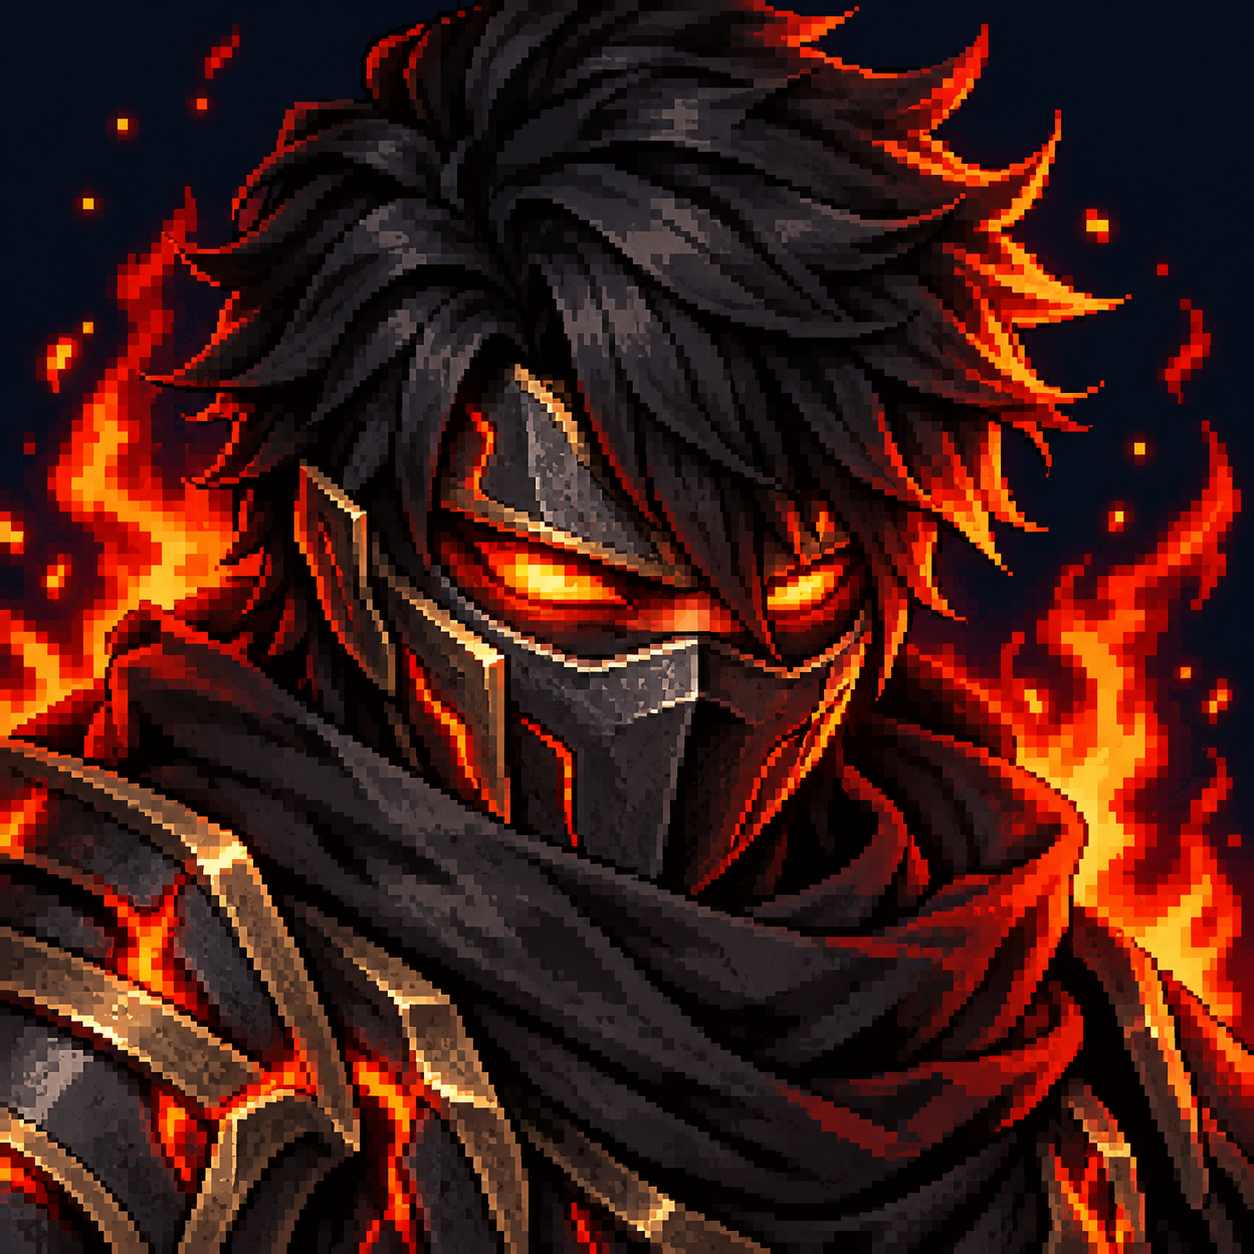
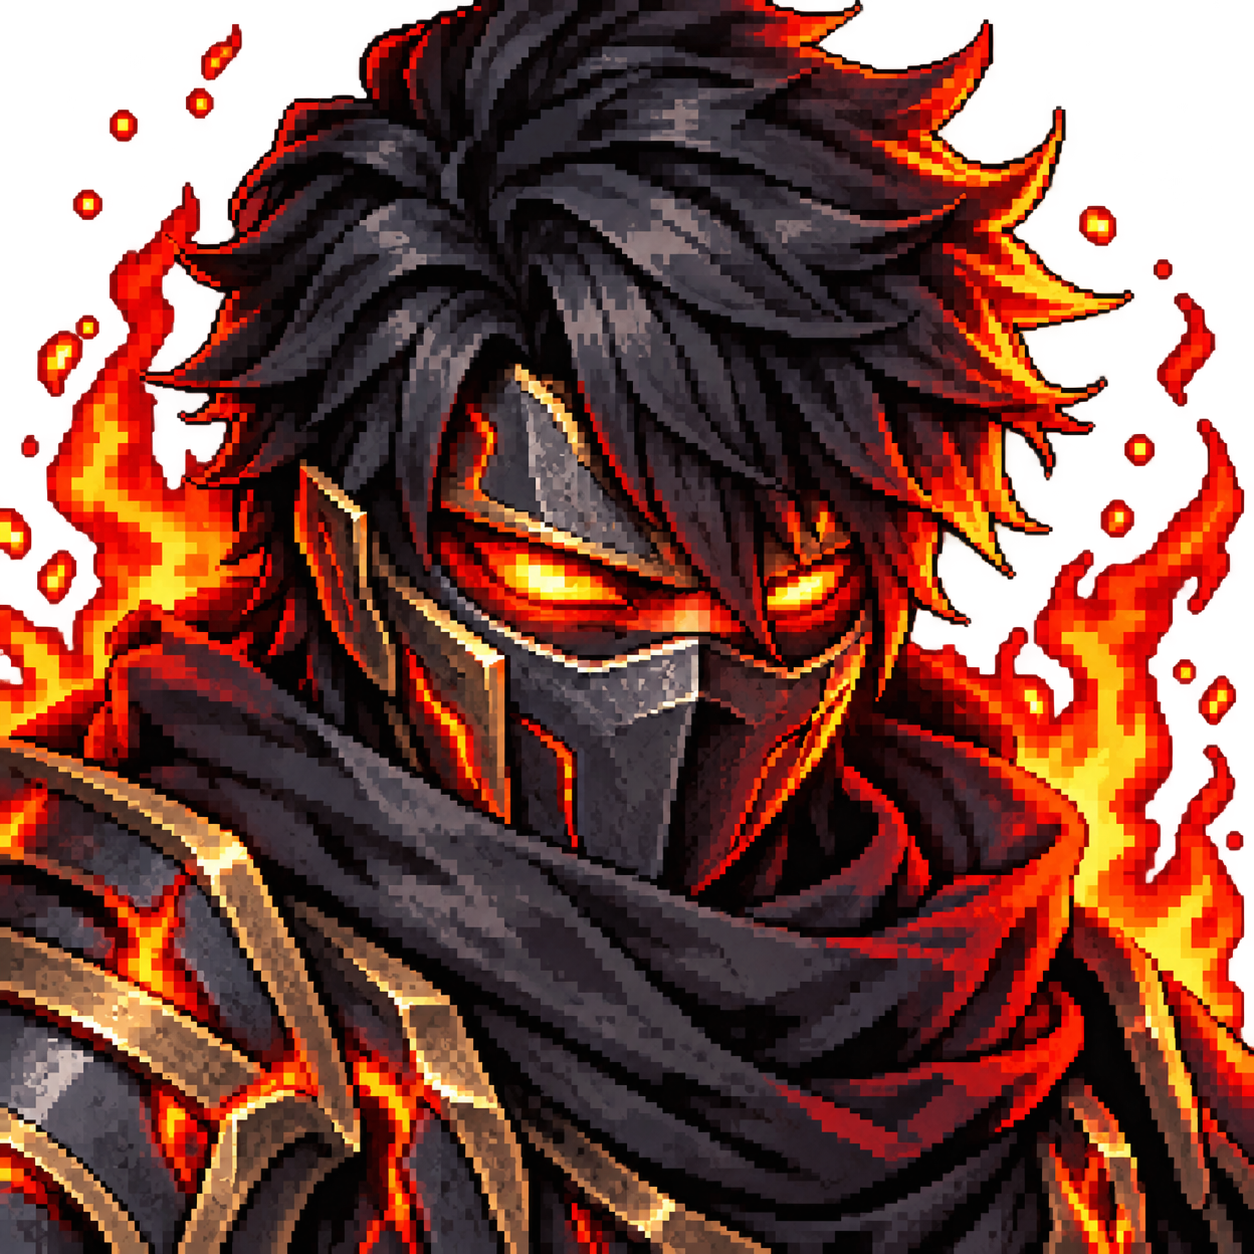
Polish roster portraits and add match report

diff --git a/index.html b/index.html
@@ -63,7 +63,7 @@
     }
     </script>
     
-    <link rel="stylesheet" href="ninjaStyles.css?v=avatar-only-forgefire-1">
+    <link rel="stylesheet" href="ninjaStyles.css?v=match-report-equal-roster-1">
     
     <!-- 🔍 Canonical URL -->
     <link rel="canonical" href="https://412730508.github.io/ninjaplay/">
@@ -358,6 +358,25 @@
         </button>
     </div>
 
+    <button type="button" class="match-report-toggle" id="matchReportToggle" onclick="toggleMatchReport()" aria-expanded="false" aria-controls="matchReportPanel">
+        <span aria-hidden="true">📋</span> 戰報
+    </button>
+    <section class="match-report-panel" id="matchReportPanel" role="dialog" aria-labelledby="matchReportTitle" hidden>
+        <header class="match-report-header">
+            <div>
+                <span class="match-report-kicker">MATCH HISTORY</span>
+                <h2 id="matchReportTitle">對戰戰報</h2>
+            </div>
+            <button type="button" class="match-report-close" onclick="closeMatchReport()" aria-label="關閉戰報">×</button>
+        </header>
+        <p class="match-report-hint">記錄雙方角色與勝負，可直接貼到試算表整理。</p>
+        <textarea id="matchReportText" class="match-report-text" readonly spellcheck="false" aria-label="可複製的對戰戰報"></textarea>
+        <footer class="match-report-actions">
+            <span id="matchReportStatus" role="status" aria-live="polite"></span>
+            <button type="button" class="match-report-copy" onclick="copyMatchReport()">複製全部</button>
+        </footer>
+    </section>
+
     <!-- 🔍 添加頁腳 -->
     <footer class="game-footer">
         <p>&copy; 2026 火柴人魔法亂鬥 | 免費線上忍者格鬥遊戲</p>
@@ -389,6 +408,102 @@
         // 道場鬥技盃：禁兩角、蛇形選六角；每人選角的先後就是三戰出場順序。
         let tournamentState = null;
         let tournamentWinnerWatcher = null;
+        const MATCH_REPORT_STORAGE_KEY = 'ninjaDuelMatchReportV1';
+        let matchReportWatcher = null;
+        let lastRecordedMatchWinner = null;
+        let matchReportEntries = loadMatchReport();
+
+        function loadMatchReport() {
+            try {
+                const saved = JSON.parse(localStorage.getItem(MATCH_REPORT_STORAGE_KEY) || '[]');
+                return Array.isArray(saved) ? saved.filter(entry => entry && entry.player1 && entry.player2 && entry.winner && entry.loser).slice(0, 300) : [];
+            } catch (error) {
+                return [];
+            }
+        }
+
+        function matchReportSafeCell(value) {
+            return String(value ?? '').replace(/[\t\r\n]+/g, ' ').trim();
+        }
+
+        function renderMatchReport() {
+            const field = document.getElementById('matchReportText');
+            if (!field) return;
+            const header = ['日期', '玩家1角色', '玩家2角色', '勝方', '敗方'].join('\t');
+            const rows = matchReportEntries.map(entry => [entry.date, entry.player1, entry.player2, entry.winner, entry.loser].map(matchReportSafeCell).join('\t'));
+            field.value = [header, ...rows].join('\n');
+            const status = document.getElementById('matchReportStatus');
+            if (status) {
+                delete status.dataset.copied;
+                status.textContent = `共 ${matchReportEntries.length} 場`;
+            }
+        }
+
+        function toggleMatchReport() {
+            const panel = document.getElementById('matchReportPanel');
+            if (!panel) return;
+            if (panel.hidden) {
+                panel.hidden = false;
+                document.getElementById('matchReportToggle')?.setAttribute('aria-expanded', 'true');
+                renderMatchReport();
+            } else {
+                closeMatchReport();
+            }
+        }
+
+        function closeMatchReport() {
+            const panel = document.getElementById('matchReportPanel');
+            if (panel) panel.hidden = true;
+            document.getElementById('matchReportToggle')?.setAttribute('aria-expanded', 'false');
+        }
+
+        async function copyMatchReport() {
+            const field = document.getElementById('matchReportText');
+            const status = document.getElementById('matchReportStatus');
+            if (!field) return;
+            renderMatchReport();
+            try {
+                await navigator.clipboard.writeText(field.value);
+            } catch (error) {
+                field.focus();
+                field.select();
+                if (!document.execCommand('copy')) {
+                    if (status) status.textContent = '已選取內容，請按 Ctrl+C 複製';
+                    return;
+                }
+            }
+            if (status) {
+                status.textContent = '已複製，可直接貼上';
+                status.dataset.copied = 'true';
+            }
+        }
+
+        function recordMatchResult() {
+            if (matchReportWatcher) clearInterval(matchReportWatcher);
+            matchReportWatcher = setInterval(() => {
+                const winnerId = game?.gameState?.winner;
+                if (!winnerId) {
+                    lastRecordedMatchWinner = null;
+                    return;
+                }
+                if (winnerId === lastRecordedMatchWinner) return;
+                const winner = game?.players?.[winnerId];
+                const loserId = winnerId === 'player1' ? 'player2' : 'player1';
+                const loser = game?.players?.[loserId];
+                if (!winner || !loser) return;
+                lastRecordedMatchWinner = winnerId;
+                matchReportEntries.unshift({
+                    date: new Date().toLocaleString('zh-TW', { hour12: false }),
+                    player1: characters[game.players.player1?.id]?.name || game.players.player1?.id || '玩家1',
+                    player2: characters[game.players.player2?.id]?.name || game.players.player2?.id || '玩家2',
+                    winner: characters[winner.id]?.name || winner.id || (winnerId === 'player1' ? '玩家1' : '玩家2'),
+                    loser: characters[loser.id]?.name || loser.id || (loserId === 'player1' ? '玩家1' : '玩家2')
+                });
+                matchReportEntries = matchReportEntries.slice(0, 300);
+                try { localStorage.setItem(MATCH_REPORT_STORAGE_KEY, JSON.stringify(matchReportEntries)); } catch (error) { /* keep this match available in memory */ }
+                if (!document.getElementById('matchReportPanel')?.hidden) renderMatchReport();
+            }, 250);
+        }
 
         function tournamentCharacterIds() {
             const order = id => id === 'forgefire' ? 1 : id === 'yanghong' ? 2 : 0;
@@ -2549,6 +2664,7 @@
         document.addEventListener('keydown', function(e) {
             if (e.key === 'Escape') {
                 closeSkillGuide();
+                closeMatchReport();
             }
         });
         
@@ -2569,6 +2685,7 @@
             
             // 初始化角色選擇
             initCharacterSelection();
+            recordMatchResult();
             
             const selectMapBtn = document.getElementById('selectMapBtn');
             const startBattleBtn = document.getElementById('startBattleBtn');

diff --git a/ninjaStyles.css b/ninjaStyles.css
@@ -1942,7 +1942,7 @@ body::after {
   #characterSelect .selected-metric, #characterSelect .selected-skill-pill { padding: 3px 6px; font-size: 0.62rem; }
   #characterSelect .roster-grid {
     height: calc(100% - 56px); grid-template-columns: repeat(7, minmax(0, 1fr));
-    grid-template-rows: repeat(3, minmax(0, 1fr)); gap: 7px;
+    grid-template-rows: repeat(4, minmax(0, 1fr)); gap: 7px;
   }
   #characterSelect .roster-grid .character-card { min-height: 0; height: 100%; padding: 7px; border-radius: 12px; }
   #characterSelect .roster-grid .character-card-main { gap: 5px; }
@@ -3533,6 +3533,92 @@ body::after {
   object-fit: cover;
   object-position: center;
   transform: scale(1.08);
+}
+
+/* Transparent forgefire cutout: preserve only the portrait artwork, not its old tile. */
+#characterSelect .roster-grid .character-card[data-character-id="forgefire"] .character-icon-block {
+  overflow: visible;
+  border-color: transparent;
+  border-radius: 0 !important;
+  background: transparent;
+  box-shadow: none;
+}
+#characterSelect .roster-grid .character-card[data-character-id="forgefire"] .character-portrait {
+  object-fit: contain;
+  transform: none;
+}
+
+/* Six columns produce balanced, equal-height rows instead of a tiny isolated last row. */
+@media (min-width: 1081px) and (min-height: 600px) {
+  #characterSelect .roster-grid {
+    grid-template-columns: repeat(6, minmax(0, 1fr)) !important;
+    grid-template-rows: repeat(4, minmax(0, 1fr)) !important;
+  }
+}
+
+.match-report-toggle {
+  position: fixed;
+  right: 18px;
+  bottom: 88px;
+  z-index: 121;
+  display: inline-flex;
+  align-items: center;
+  gap: 7px;
+  padding: 10px 14px;
+  color: #fff4d7;
+  font-family: inherit;
+  font-size: .82rem;
+  font-weight: 700;
+  line-height: 1.1;
+  background: linear-gradient(145deg, rgba(30, 39, 65, .98), rgba(10, 15, 31, .98));
+  border: 1px solid rgba(255, 203, 96, .58);
+  border-radius: 12px;
+  box-shadow: 0 8px 22px rgba(0, 0, 0, .38);
+  cursor: pointer;
+}
+.match-report-toggle:hover,
+.match-report-copy:hover { border-color: #ffe18b; filter: brightness(1.12); }
+.match-report-panel {
+  position: fixed;
+  right: 18px;
+  bottom: 140px;
+  z-index: 122;
+  display: flex;
+  flex-direction: column;
+  width: min(440px, calc(100vw - 28px));
+  max-height: min(66vh, 540px);
+  padding: 16px;
+  color: #f4f0e8;
+  background: linear-gradient(145deg, rgba(18, 24, 43, .98), rgba(8, 12, 25, .99));
+  border: 1px solid rgba(255, 203, 96, .45);
+  border-radius: 16px;
+  box-shadow: 0 18px 48px rgba(0, 0, 0, .55);
+}
+.match-report-panel[hidden] { display: none !important; }
+.match-report-header { display: flex; align-items: center; justify-content: space-between; gap: 12px; }
+.match-report-kicker { color: #f6c953; font-size: .62rem; font-weight: 800; letter-spacing: .16em; }
+.match-report-header h2 { margin: 3px 0 0; font-size: 1.2rem; }
+.match-report-close {
+  width: 34px; height: 34px; color: #f3e8cf; font-size: 1.4rem;
+  background: rgba(255, 255, 255, .07); border: 1px solid rgba(255, 255, 255, .14);
+  border-radius: 9px; cursor: pointer;
+}
+.match-report-hint { margin: 9px 0; color: rgba(236, 239, 248, .68); font-size: .76rem; }
+.match-report-text {
+  width: 100%; min-height: 170px; flex: 1 1 auto; resize: vertical;
+  padding: 10px; color: #e8edf8; font: 12px/1.55 Consolas, "Microsoft JhengHei", monospace;
+  background: rgba(3, 7, 17, .8); border: 1px solid rgba(255, 255, 255, .12); border-radius: 9px;
+}
+.match-report-actions { display: flex; align-items: center; justify-content: space-between; gap: 10px; padding-top: 10px; }
+.match-report-actions [role="status"] { color: #e8cf89; font-size: .75rem; }
+.match-report-copy {
+  padding: 8px 14px; color: #211703; font-family: inherit; font-size: .8rem; font-weight: 800; line-height: 1.2;
+  background: linear-gradient(120deg, #f0bd36, #ffdf7b); border: 1px solid #ffe596;
+  border-radius: 9px; cursor: pointer;
+}
+@media (max-width: 680px) {
+  .match-report-toggle { right: 10px; bottom: 70px; }
+  .match-report-panel { right: 10px; bottom: 118px; width: calc(100vw - 20px); }
 }
 
 @media (max-width: 760px) {
